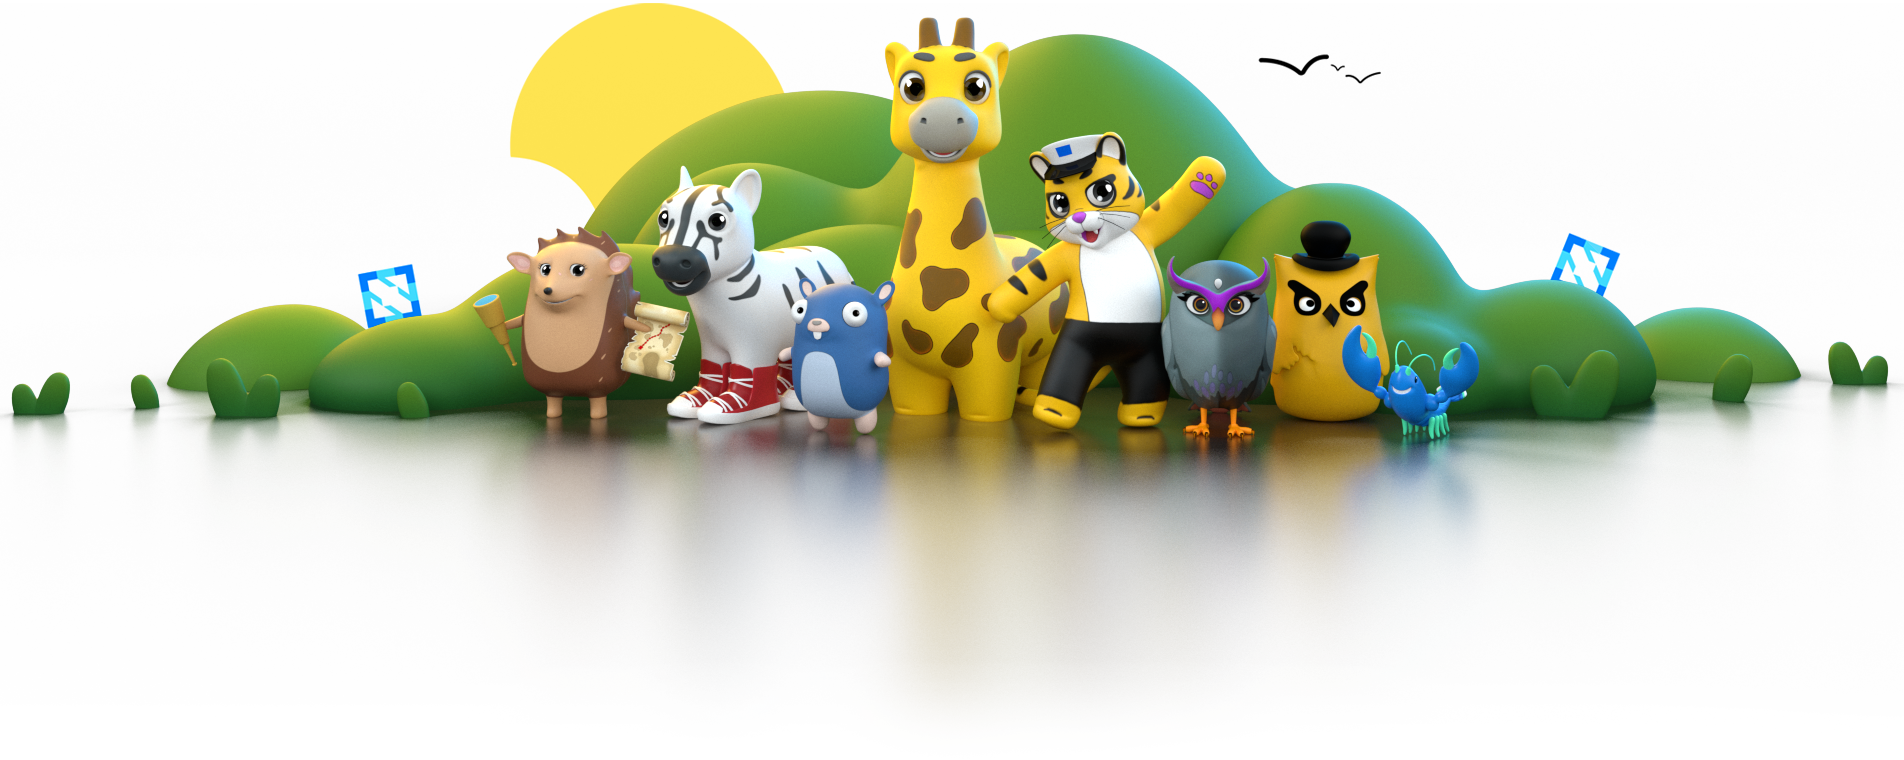
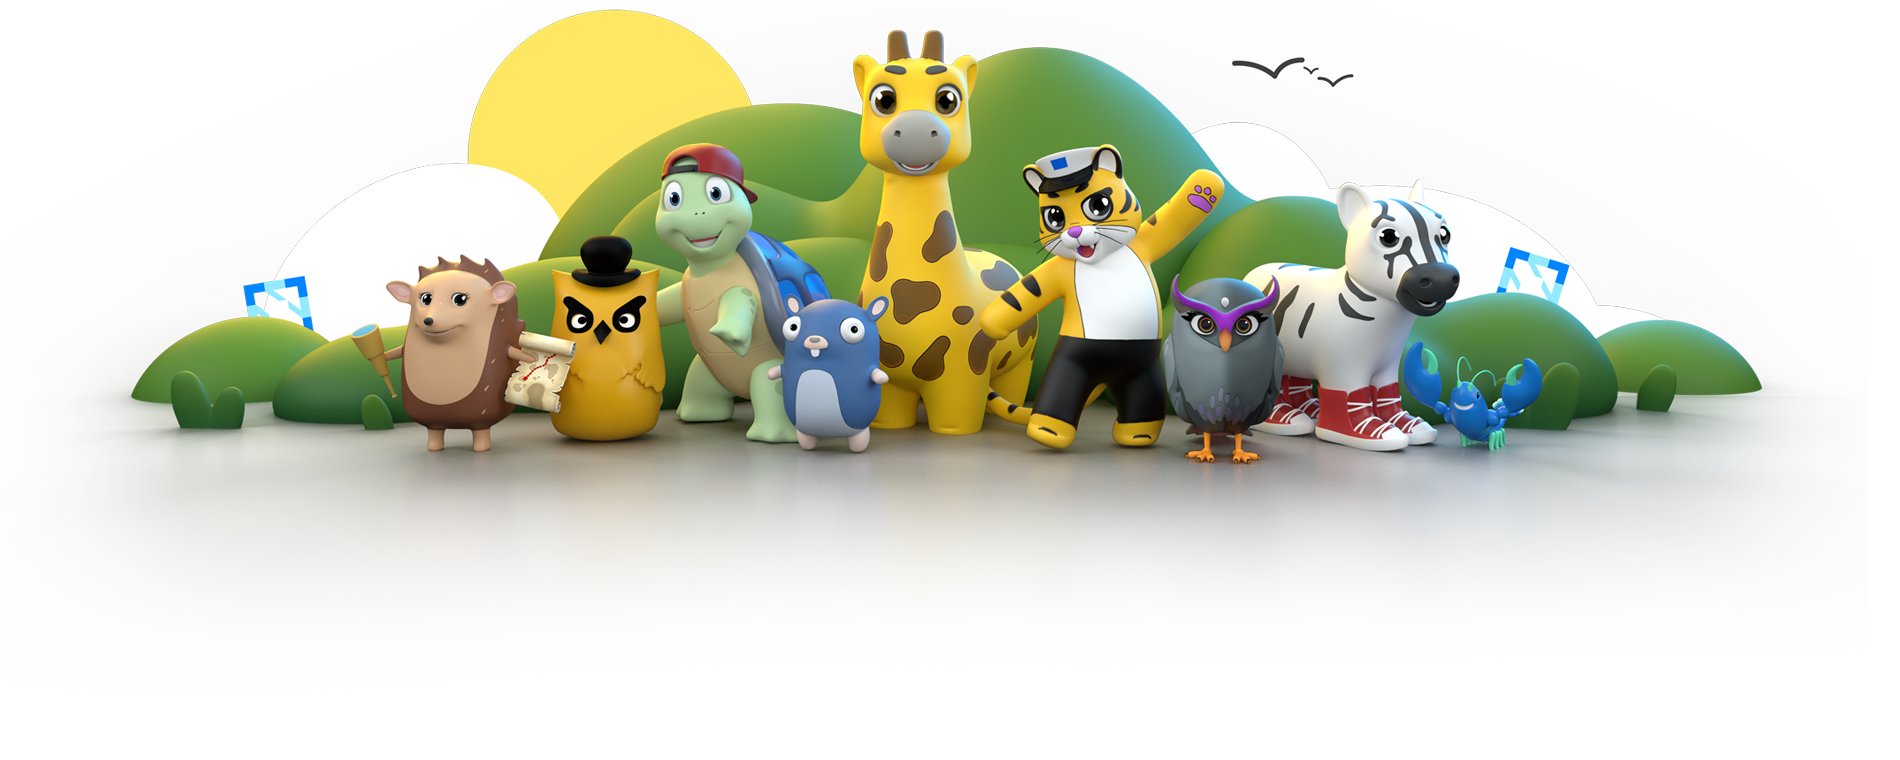
Updating Phippy image

diff --git a/web/wp-content/themes/cncf-twenty-two/components/footer.php b/web/wp-content/themes/cncf-twenty-two/components/footer.php
@@ -34,7 +34,7 @@ $site_options = get_option( 'lf-mu' );
 					" media="(min-width: 700px)" type="image/webp">
 					<source srcset="
 				<?php
-					Lf_Utils::get_image( 'phippy-family-footer-800x319.webp', true );
+					Lf_Utils::get_image( 'phippy-family-footer-900x360.webp', true );
 				?>
 					" type="image/webp">
 					<source srcset="
@@ -44,14 +44,14 @@ $site_options = get_option( 'lf-mu' );
 					" media="(min-width: 700px)" type="image/png">
 					<source srcset="
 				<?php
-					Lf_Utils::get_image( 'phippy-family-footer-800x319.png', true );
+					Lf_Utils::get_image( 'phippy-family-footer-900x360.png', true );
 				?>
 					" type="image/png">
 					<img src="
 				<?php
 					Lf_Utils::get_image( 'phippy-family-footer.png', true );
 				?>
-					" alt="Characters from Phippy family" width="1904" height="760"
+					" alt="Characters from Phippy family" width="1900" height="760"
 						class="phippy-footer__image" id="phippy-footer"
 						loading="lazy" decoding="async">
 				</picture>
